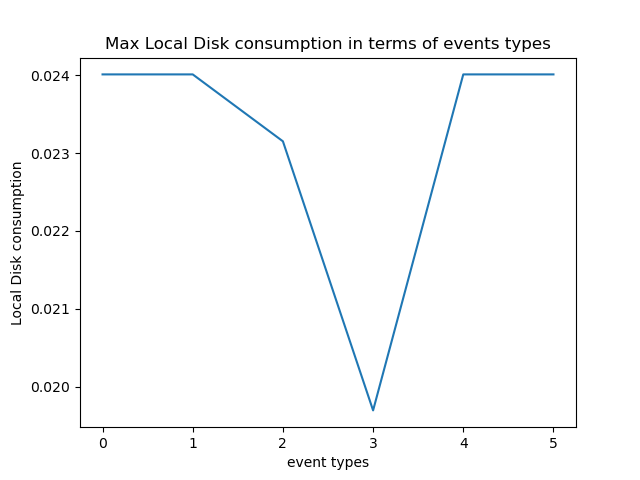
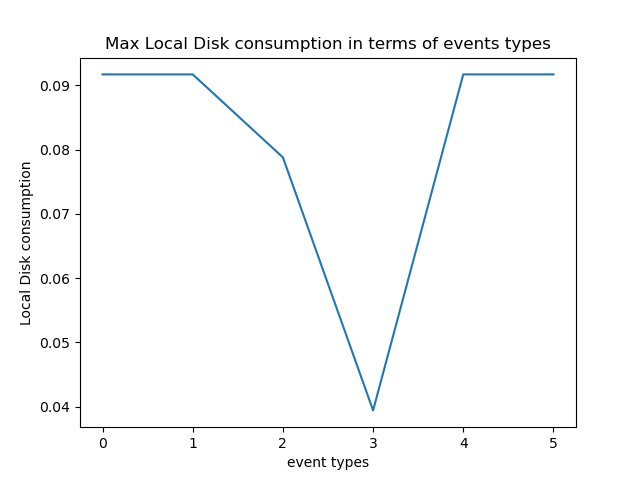
optimzing commands and updating graphs

diff --git a/spark-google.py b/spark-google.py
@@ -42,14 +42,14 @@ def main():
 			#Note: We tried to use foreach(do substruction) but we always get None
 
 			# Calculate total CPU power loss for all machines and then sum to get the total CPU power loss on the cluster
-			cpu_capacities= machine_events.filter(lambda m: int(m[1]) in rec_IDs and m[4]!='' and m[5]!='').map(lambda m: (m[1],float(m[4]))).groupByKey().map(lambda m: (m[0],list(m[1])[0]))
-			cpu_losses=disconnection_time.join(cpu_capacities).distinct().map(lambda c: sum([c[1][1]*x for x in c[1][0]])).collect()
+			cpu_capacities= machine_events.filter(lambda m: int(m[1]) in rec_IDs and m[4]!='' and m[5]!='').map(lambda m: (m[1],float(m[4]))).groupByKey().map(lambda m: (m[0],max(list(m[1]))))
+			cpu_losses=disconnection_time.join(cpu_capacities).map(lambda c: sum([c[1][1]*x for x in c[1][0]])).collect()
 			#print('CPU losses on different machines due to maintenance are:',cpu_losses)
 			print('Total CPU loss on the Google cluster due to maintenance is:',sum(cpu_losses))
 
 			# Calculate total memory power loss for all machines and then sum to get the total memory power loss on the cluster
-			memory_capacities= machine_events.filter(lambda m: int(m[1]) in rec_IDs and m[4]!='' and m[5]!='').map(lambda m: (m[1],float(m[5]))).groupByKey().map(lambda m: (m[0],list(m[1])[0]))
-			memory_losses=disconnection_time.join(memory_capacities).distinct().map(lambda c: sum([c[1][1]*x for x in c[1][0]])).collect()
+			memory_capacities= machine_events.filter(lambda m: int(m[1]) in rec_IDs and m[4]!='' and m[5]!='').map(lambda m: (m[1],float(m[5]))).groupByKey().map(lambda m: (m[0],max(list(m[1]))))
+			memory_losses=disconnection_time.join(memory_capacities).map(lambda c: sum([c[1][1]*x for x in c[1][0]])).collect()
 			#print('Memory losses on different machines due to maintenance are:',memory_losses)
 			print('Total memory loss on the Google cluster due to maintenance is:',sum(memory_losses))
 			
@@ -166,19 +166,18 @@ def main():
 			task_events.cache()
 
 			## a) CPU consumption
-			filtered=resource_usage.filter(lambda t: t[5]!='' and t[6]!='')
-			tasks_cpu_usage=filtered.map(lambda t: (t[2]+t[3],float(t[5]))) #get cpu usage for all tasks
-			tasks_mem_usage=filtered.map(lambda t: (t[2]+t[3],float(t[6]))) #get memory usage for all tasks
-			tasks_ldisk_usage=filtered.map(lambda t: (t[2]+t[3],float(t[12]))) #get local disk usage for all tasks
+			filtered=resource_usage.filter(lambda t: t[5]!='' and t[6]!='' and t[12]!='')
+			tasks_cpu_usage=filtered.map(lambda t: (t[2]+t[3],float(t[5]))).reduceByKey(max) #get max cpu usage for all tasks
+			tasks_mem_usage=filtered.map(lambda t: (t[2]+t[3],float(t[6]))).reduceByKey(max) #get max memory usage for all tasks
+			tasks_ldisk_usage=filtered.map(lambda t: (t[2]+t[3],float(t[12]))).reduceByKey(max) #get max local disk usage for all tasks
 			
-			filtered=task_events.filter(lambda t: t[4]!='' and t[9]!='' and t[10]!='' and t[11]!='') # clean our data 
-			tasks=filtered.map(lambda t: (t[2]+t[3],(t[4],t[5])))
-			tasks_max_cpu=tasks.join(tasks_cpu_usage).map(lambda t: (t[0],t[1][1])).reduceByKey(max) # get (taskID, max cpu usage)
-			machines=tasks_max_cpu.join(tasks).map(lambda t: (t[1][1][0],t[1][0])) # get(machine ID, max task cpu usage)
-			total_cpu_usg_per_machine=machines.reduceByKey(lambda a, b: a + b)# get (machine ID, total cpu usage))
+			filtered=task_events.filter(lambda t: t[4]!='' and t[9]!='' and t[10]!='' and t[11]!='') # clean our data by removing tasks that have missing values for Machine ID, CPU/RAM/local disk requests
+			tasks=filtered.map(lambda t: (t[2]+t[3],(t[4],t[5]))) # get (taskID,(machine ID, event type))
+			machines=tasks_cpu_usage.join(tasks).map(lambda t: (t[1][1][0],t[1][0])) # get(machine ID, task max cpu usage)
+			total_cpu_usg_per_machine=machines.reduceByKey(lambda a, b: a + b)# get (machine ID, max total cpu usage))
 			events=tasks.map(lambda t: (t[1][0],t[1][1])) #get (machine ID, event type)
 
-			joined_rdd=events.join(total_cpu_usg_per_machine).map(lambda t: (t[1][0],t[1][1])).reduceByKey(max).sortByKey().collect()# get (event type, total cpu usage)
+			joined_rdd=events.join(total_cpu_usg_per_machine).map(lambda t: (t[1][0],t[1][1])).reduceByKey(max).sortByKey().collect()# get (event type, max total cpu usage)
 			plt.plot(*zip(*joined_rdd))
 			plt.title('Max CPU consumption in terms of events types')
 			plt.xlabel('event types')
@@ -186,11 +185,11 @@ def main():
 			plt.show()
 
 			## b) Memory consumption
-			tasks_max_mem=tasks.join(tasks_mem_usage).map(lambda t: (t[0],t[1][1])).reduceByKey(max) # get (taskID, max memory usage)
+			tasks_max_mem=tasks.join(tasks_mem_usage).map(lambda t: (t[0],t[1][1]))# get (taskID, max memory usage)
 			machines=tasks_max_mem.join(tasks).map(lambda t: (t[1][1][0],t[1][0])) # get(machine ID, max task mem usage)
-			total_mem_usg_per_machine=machines.reduceByKey(lambda a, b: a + b)# get (machine ID, total memory usage))
+			total_mem_usg_per_machine=machines.reduceByKey(lambda a, b: a + b)# get (machine ID, total max memory usage))
 
-			joined_rdd=events.join(total_mem_usg_per_machine).map(lambda t: (t[1][0],t[1][1])).reduceByKey(max).sortByKey().collect()# get (event type, total memory usage)
+			joined_rdd=events.join(total_mem_usg_per_machine).map(lambda t: (t[1][0],t[1][1])).reduceByKey(max).sortByKey().collect()# get (event type, total max memory usage)
 			plt.plot(*zip(*joined_rdd))
 			plt.title('Max Memory consumption in terms of events types')
 			plt.xlabel('event types')
@@ -198,7 +197,7 @@ def main():
 			plt.show()
 
 			## c) Local disk
-			tasks_max_disk=tasks.join(tasks_ldisk_usage).map(lambda t: (t[0],t[1][1])).reduceByKey(max) # get (taskID, max local disk usage)
+			tasks_max_disk=tasks.join(tasks_ldisk_usage).map(lambda t: (t[0],t[1][1]))# get (taskID, max local disk usage)
 			machines=tasks_max_disk.join(tasks).map(lambda t: (t[1][1][0],t[1][0])) # get(machine ID, max task local disk usage)
 			total_ld_usg_per_machine=machines.reduceByKey(lambda a, b: a + b)# get (machine ID, total local disk usage))
 
